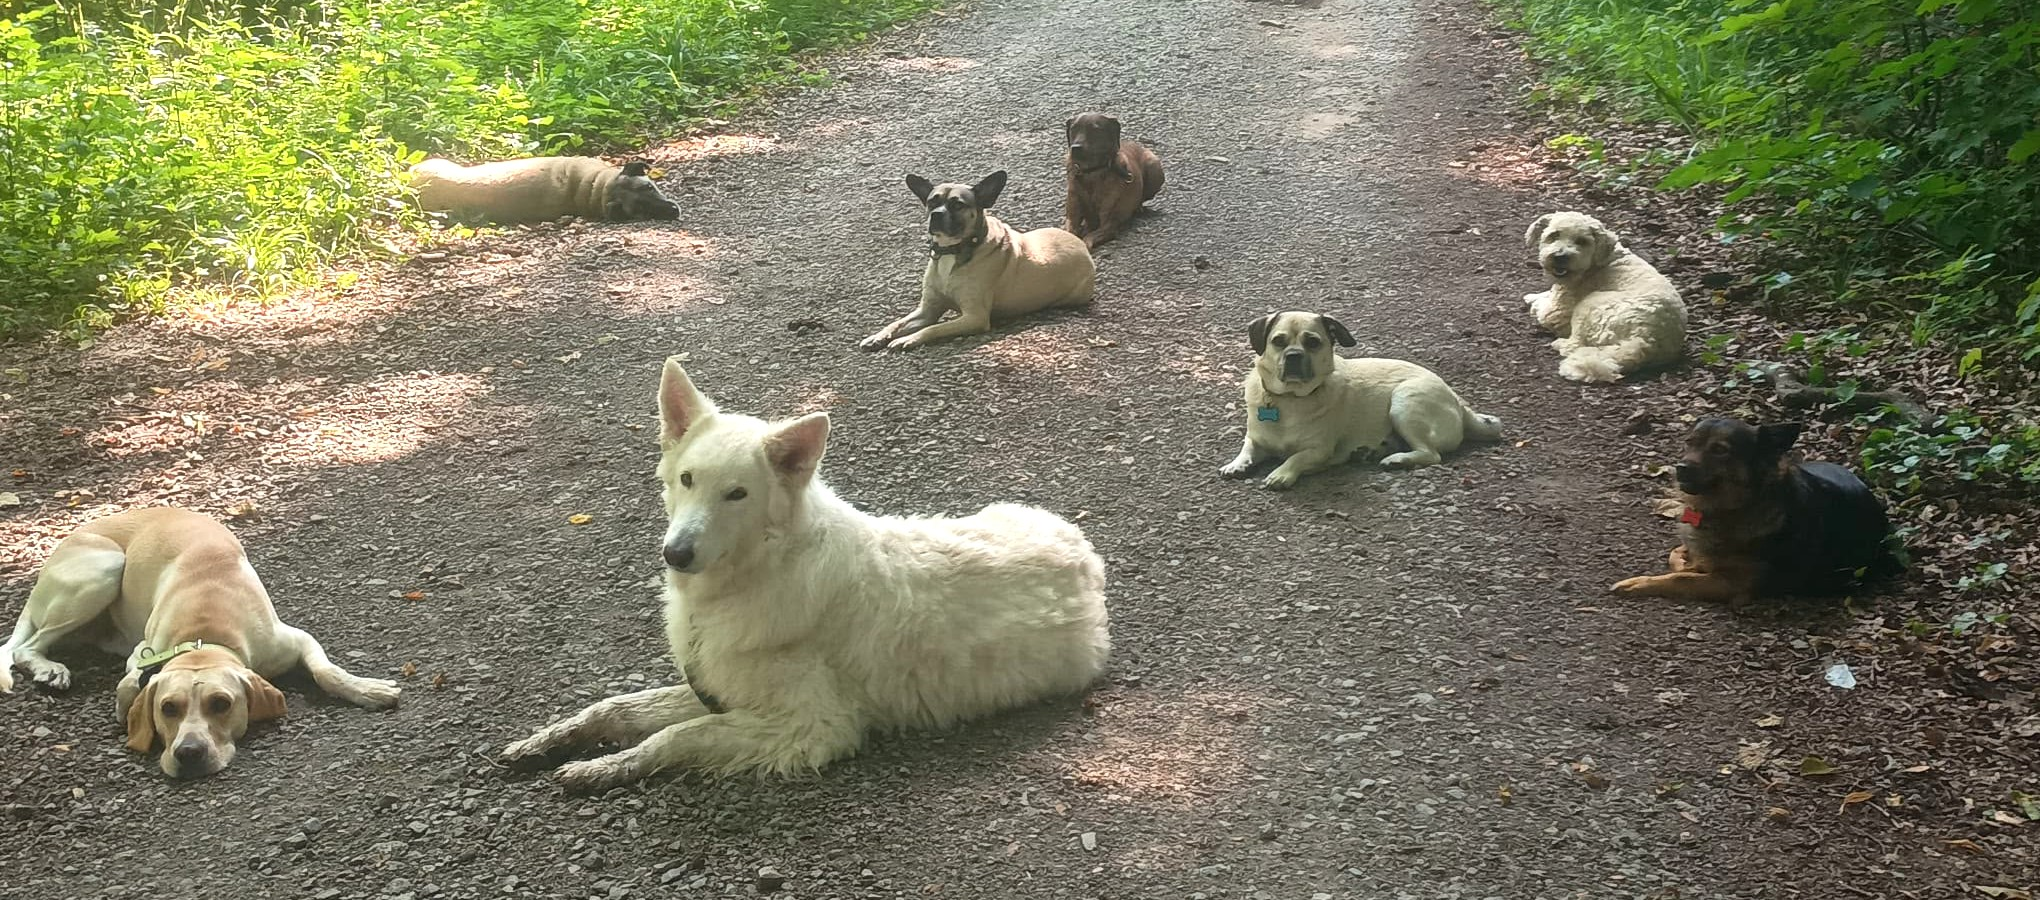
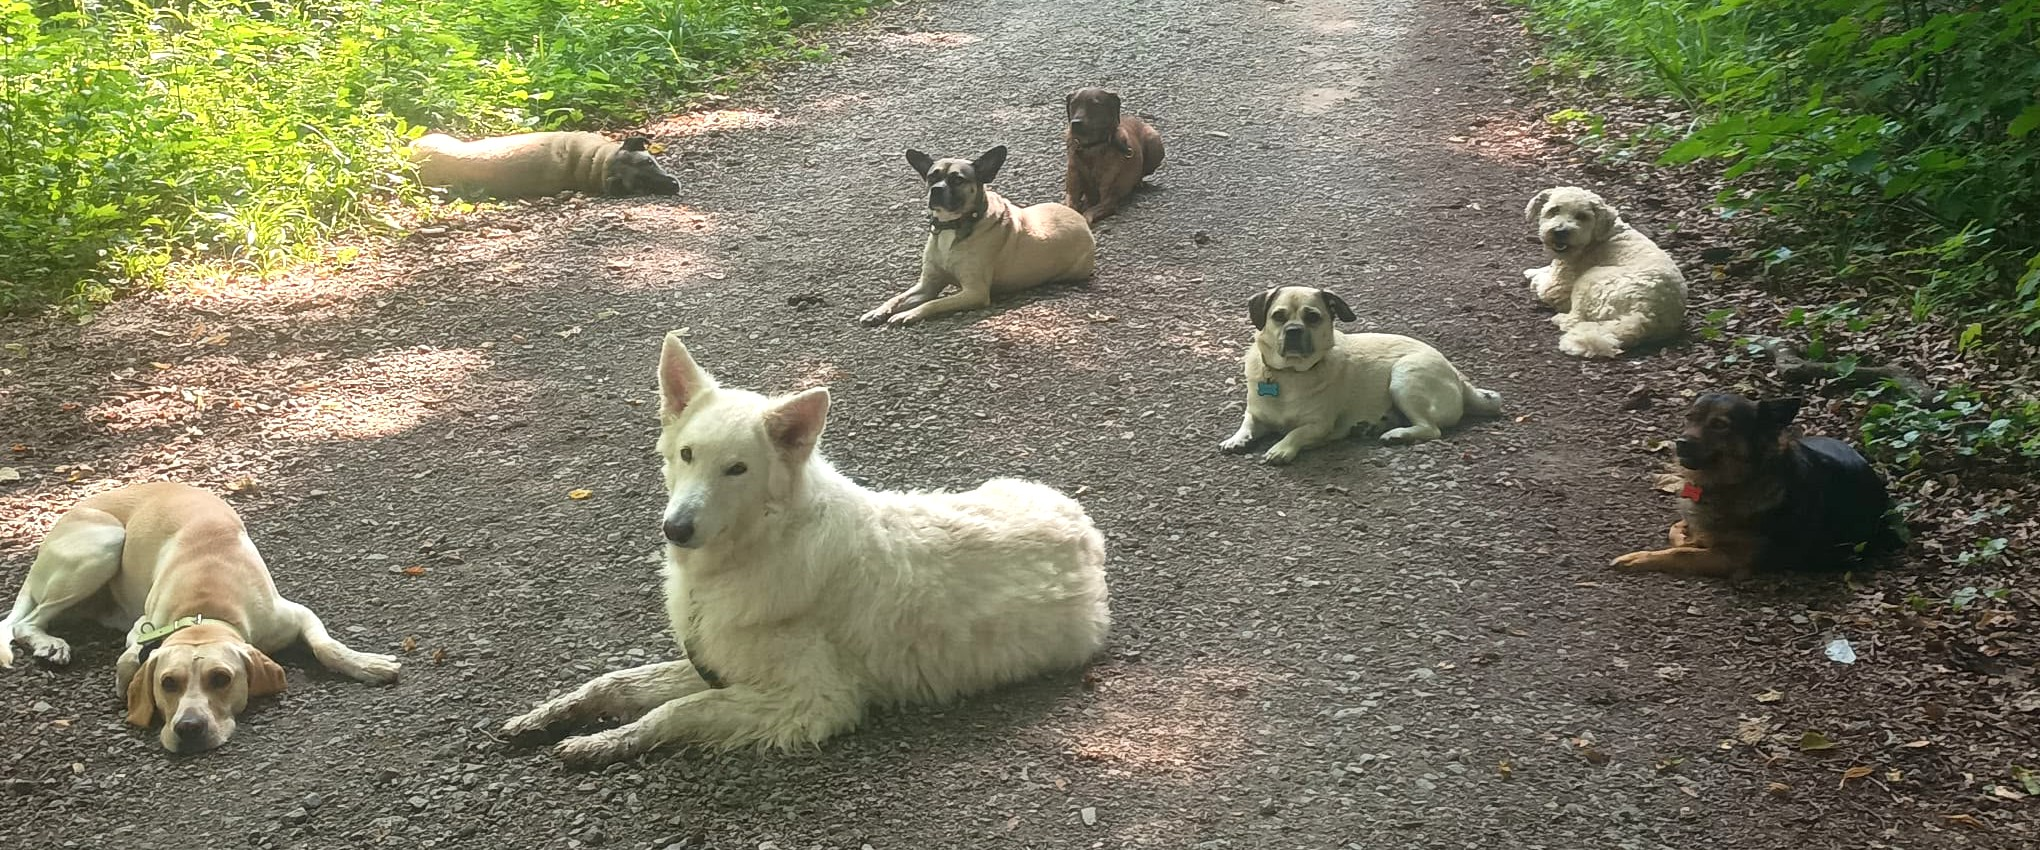
Header-Fotos robust fixiert (aspect-ratio statt fixer Hoehe), alle Ordnerfotos eingebunden
- .page-hero nutzt jetzt CSS aspect-ratio statt fixer min-height, damit der
  Zuschnitt bei jeder Bildschirmbreite konsistent bleibt (vorheriger Fix war
  nur bei einer Breite getestet und brach bei anderen wieder)
- sachkunde.jpg / gaby-mit-hunden.jpg sind auch auf der Startseite im Einsatz
  und wurden faelschlich ueberschrieben -> Originale wiederhergestellt, Kontakt
  und Ueber-mich nutzen jetzt eigene Hero-Dateien (sachkunde-hero.jpg,
  gaby-mit-hunden-hero.jpg)
- Homepage-Hero-Verdunklung (.hero__overlay) abgeschwaecht
- Jilliana zeigt jetzt ihr Hochformat statt erzwungenem 4:3-Zuschnitt
- Neue "Impressionen"-Karussell-Sektion auf angebote.html mit den vier
  zuvor ungenutzten Fotos (Gruppenunterricht2, image0, image2, image4)
- Startseite: Einzeltraining- und Seminar-Kachel auf konsistente Fotos
  aktualisiert

diff --git a/angebote.html b/angebote.html
@@ -10,6 +10,27 @@
   <style>
     .offer-block { display:grid; grid-template-columns:1fr 1fr; gap:56px; align-items:center; margin-bottom:80px; }
     .offer-block:last-child { margin-bottom:0; }
+    .carousel { position:relative; }
+    .carousel__track {
+      display:flex; gap:16px; overflow-x:auto; scroll-snap-type:x mandatory;
+      scroll-behavior:smooth; padding-bottom:8px; -webkit-overflow-scrolling:touch;
+    }
+    .carousel__track img {
+      flex:0 0 auto; width:80%; aspect-ratio:3/2; object-fit:cover;
+      border-radius:8px; scroll-snap-align:start; box-shadow:0 4px 24px rgba(0,0,0,0.1);
+    }
+    @media(min-width:700px){ .carousel__track img{ width:31%; } }
+    .carousel__nav {
+      position:absolute; top:50%; transform:translateY(-50%);
+      width:44px; height:44px; border-radius:50%; border:none;
+      background:#fff; box-shadow:0 2px 12px rgba(0,0,0,0.18);
+      font-size:1.5rem; line-height:1; cursor:pointer; z-index:2; color:#2D2A26;
+      display:flex; align-items:center; justify-content:center;
+    }
+    .carousel__nav:hover { background:#FAF6EF; }
+    .carousel__nav--prev { left:-8px; }
+    .carousel__nav--next { right:-8px; }
+    @media(max-width:640px){ .carousel__nav{display:none;} }
     .offer-block:nth-child(even) .offer-block__img { order:-1; }
     .offer-block__img img { width:100%; border-radius:8px; object-fit:cover; aspect-ratio:3/2; box-shadow:0 4px 24px rgba(0,0,0,0.12); }
     .offer-block__text .section-label { margin-bottom:0.4rem; }
@@ -165,6 +186,24 @@
         </div>
       </div>
 
+    </div>
+  </section>
+
+  <!-- Impressionen -->
+  <section class="section section--light">
+    <div class="container">
+      <p class="section-label" style="text-align:center">Impressionen</p>
+      <h2 style="text-align:center;margin-bottom:2rem">Training in Aktion</h2>
+      <div class="carousel">
+        <button type="button" class="carousel__nav carousel__nav--prev" data-carousel-prev aria-label="Zurück">&#8249;</button>
+        <div class="carousel__track">
+          <img src="images/impression-wiese-1.jpg" alt="Hundegruppe entspannt auf der Wiese">
+          <img src="images/impression-tunnel.jpg" alt="Hund läuft durch den Tunnel beim Agility-Training">
+          <img src="images/impression-wiese-2.jpg" alt="Hunde beim gemeinsamen Training auf der Wiese">
+          <img src="images/impression-lagerhalle.jpg" alt="Hundegruppe wartet konzentriert in der Trainingshalle">
+        </div>
+        <button type="button" class="carousel__nav carousel__nav--next" data-carousel-next aria-label="Weiter">&#8250;</button>
+      </div>
     </div>
   </section>
 
@@ -326,6 +365,16 @@
         if (e.key === 'Escape') modal.classList.remove('is-open');
       });
     })();
+  </script>
+  <script>
+    document.querySelectorAll('.carousel').forEach(function(carousel){
+      const track = carousel.querySelector('.carousel__track');
+      const step = function(){ return track.firstElementChild.getBoundingClientRect().width + 16; };
+      const prev = carousel.querySelector('[data-carousel-prev]');
+      const next = carousel.querySelector('[data-carousel-next]');
+      if (prev) prev.addEventListener('click', function(){ track.scrollBy({ left: -step(), behavior: 'smooth' }); });
+      if (next) next.addEventListener('click', function(){ track.scrollBy({ left: step(), behavior: 'smooth' }); });
+    });
   </script>
 </body>
 </html>

diff --git a/ueber-mich.html b/ueber-mich.html
@@ -8,9 +8,10 @@
   <link rel="icon" type="image/png" href="Favicon.png">
   <link rel="stylesheet" href="css/style.css">
   <style>
-    .story-photos { display:grid; grid-template-columns:1fr 1fr 1fr; gap:24px; margin:48px 0; }
+    .story-photos { display:grid; grid-template-columns:1fr 1fr 1fr; gap:24px; margin:48px 0; align-items:start; }
     .story-photos figure { margin:0; }
     .story-photos img { border-radius:8px; width:100%; object-fit:cover; aspect-ratio:4/3; display:block; }
+    .story-photos figure img { aspect-ratio:3/4; }
     .story-photos figcaption { margin-top:8px; font-size:0.85rem; color:#6B6560; text-align:center; }
     @media(max-width:640px){ .story-photos{grid-template-columns:1fr;} }
   </style>
@@ -35,7 +36,7 @@
   </header>
 
   <!-- PAGE HERO -->
-  <section class="page-hero" style="background-image:url('images/gaby-mit-hunden.jpg')">
+  <section class="page-hero page-hero--compact" style="background-image:url('images/gaby-mit-hunden-hero.jpg')">
     <div class="page-hero__overlay"></div>
     <div class="page-hero__content container">
       <p class="hero__eyebrow">Über mich</p>

diff --git a/css/style.css b/css/style.css
@@ -182,12 +182,16 @@ p:last-child { margin-bottom: 0; }
    ================================================ */
 .page-hero {
   position: relative;
-  min-height: 440px;
+  min-height: 320px;
   display: flex;
   align-items: flex-end;
   background-size: cover;
   background-position: center;
   padding-bottom: 48px;
+}
+@media (min-width: 700px) {
+  .page-hero { aspect-ratio: 2.4 / 1; min-height: 380px; }
+  .page-hero--compact { aspect-ratio: 2.6 / 1; min-height: 260px; }
 }
 .page-hero__overlay {
   position: absolute;
@@ -302,8 +306,8 @@ p:last-child { margin-bottom: 0; }
   position: absolute;
   inset: 0;
   background:
-    linear-gradient(to right, rgba(20,18,14,0.72) 0%, rgba(20,18,14,0.50) 40%, rgba(20,18,14,0.10) 65%, rgba(20,18,14,0) 100%),
-    linear-gradient(to bottom, rgba(20,18,14,0.05) 0%, rgba(20,18,14,0.35) 100%);
+    linear-gradient(to right, rgba(20,18,14,0.52) 0%, rgba(20,18,14,0.34) 40%, rgba(20,18,14,0.08) 65%, rgba(20,18,14,0) 100%),
+    linear-gradient(to bottom, rgba(20,18,14,0.05) 0%, rgba(20,18,14,0.30) 100%);
 }
 .hero__content {
   position: relative;

diff --git a/index.html b/index.html
@@ -106,7 +106,7 @@
 
         <article class="service-card">
           <div class="service-card__img">
-            <img src="images/gruppentraining.jpg" alt="Gruppentraining mit mehreren Hunden in der Natur">
+            <img src="images/einzeltraining-huegel.jpg" alt="Einzeltraining: Hundetrainerin arbeitet mit Hund an der Leine">
           </div>
           <div class="service-card__body">
             <h3>Einzeltraining &amp; Problemverhalten</h3>
@@ -139,7 +139,7 @@
 
         <article class="service-card">
           <div class="service-card__img">
-            <img src="images/seminar.jpg" alt="Hunde liegen diszipliniert auf einem Waldweg – Seminar der Hundeschule Zimmer">
+            <img src="images/seminar-agility.jpg" alt="Agility-Seminar der Hundeschule Zimmer mit mehreren Hundehalterinnen">
           </div>
           <div class="service-card__body">
             <h3>Seminare &amp; Gruppentraining</h3>

diff --git a/kontakt.html b/kontakt.html
@@ -89,7 +89,7 @@
     </nav>
   </header>
 
-  <section class="page-hero" style="background-image:url('images/sachkunde.jpg');min-height:260px">
+  <section class="page-hero page-hero--compact" style="background-image:url('images/sachkunde-hero.jpg')">
     <div class="page-hero__overlay"></div>
     <div class="page-hero__content container">
       <p class="hero__eyebrow">
